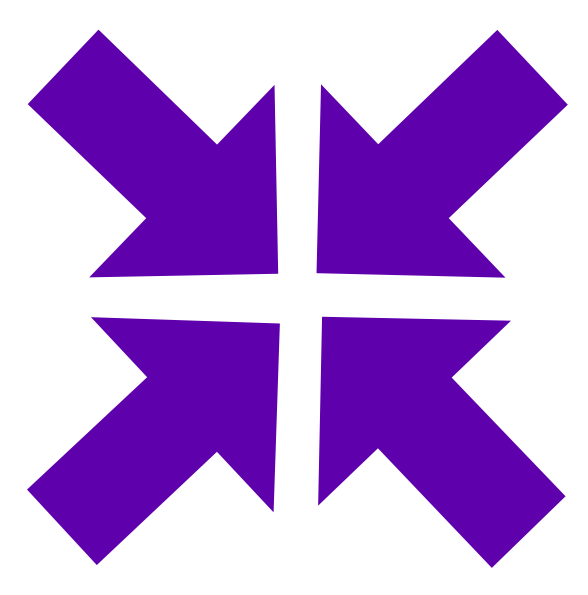
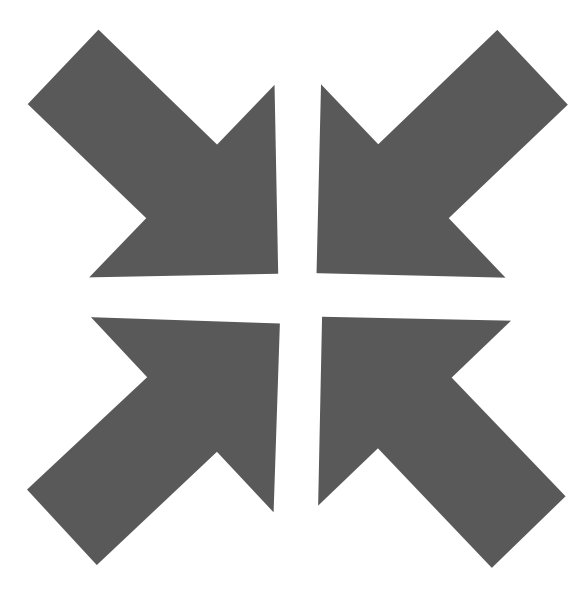
Task 54
Gray scale button and commenting update.

diff --git a/Assets/Clicke.cs b/Assets/Clicke.cs
@@ -3,6 +3,10 @@ using System.Collections.Generic;
 using UnityEngine;
 using UnityEngine.UI;
 
+/*
+ * KMJ: 02/08/18 - Fullscreen script that allows user to enter and exit fullscreen mode. 
+ * Fullscreen button image is swapped each time button is touched. Utilizes OnMouseDown Trigger.
+ */
 public class Clicke : MonoBehaviour {
     bool enableFull = true;
     public Sprite OffSprite;
@@ -13,7 +17,7 @@ public class Clicke : MonoBehaviour {
 		
 	}
 	
-	// Update is called once per frame
+    // KMJ: 02/03/18 Checks for collider hit and tells Unity to start OnMouseDown Trigger.
 	void Update () {
         if (Input.GetMouseButtonDown(0))
         {
@@ -31,6 +35,8 @@ public class Clicke : MonoBehaviour {
         }
 		
 	}
+
+    // KMJ: 02/03/18 Toggles fullscreen and image each time button is touched.
     public void OnMouseDown()
     {
         Screen.fullScreen = !Screen.fullScreen;

diff --git a/Assets/Scripts/UI/PointerFullscreen.cs b/Assets/Scripts/UI/PointerFullscreen.cs
@@ -4,6 +4,10 @@ using UnityEngine.EventSystems;
 using UnityEngine;
 using UnityEngine.UI;
 
+/*
+ * KMJ: 02/08/18 - Fullscreen script that allows user to enter and exit fullscreen mode. 
+ * Fullscreen button image is swapped each time button is touched. Utilizes OnPointerDown Event.
+ */
 public class PointerFullscreen : MonoBehaviour, IPointerDownHandler {
     public Sprite OffSprite;
     public Sprite OnSprite;
